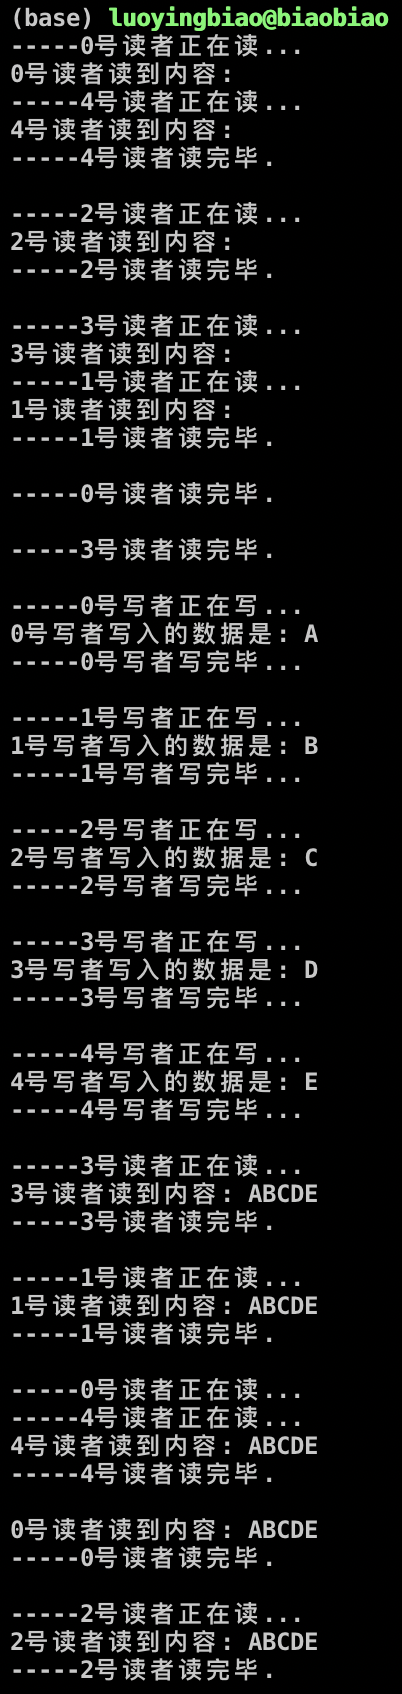
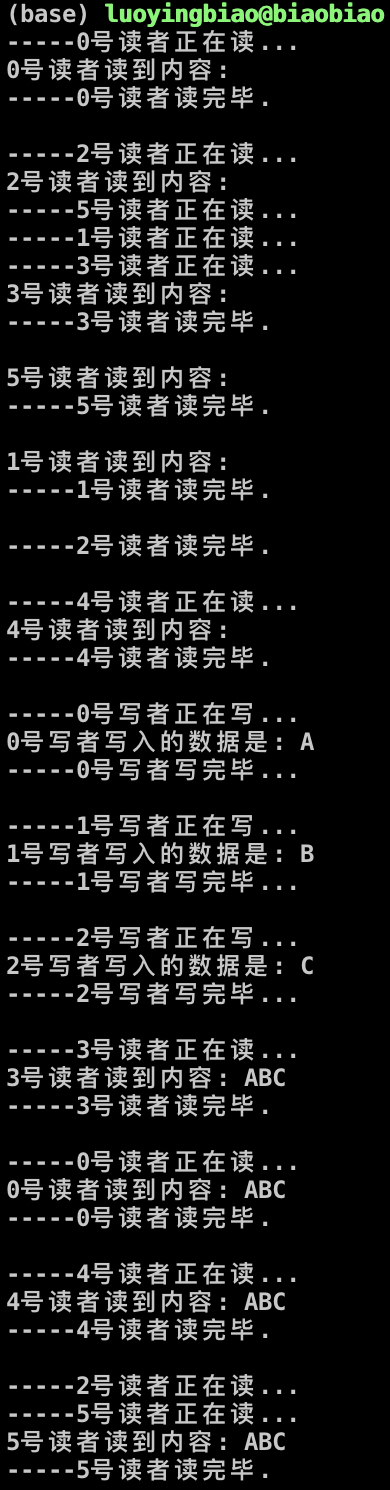
update assignment3

Changed region(s): [[0.0, 0.0, 0.9846, 1.0], [0.7385, 0.4322, 0.8, 0.4631], [0.7385, 0.3705, 0.8, 0.4013]]

diff --git a/assignment3/code1/rw_writer_first.cpp b/assignment3/code1/rw_writer_first.cpp
@@ -3,16 +3,15 @@
 #include <string.h>
 #include <unistd.h>
 
-/** 运用Posix信号量使用”读者优先”策略解决”读者写者问题”
+/** 运用Posix信号量使用”写者优先”策略解决”读者写者问题”
 解题思路:
-如果新读者到：
-　　　①无读者、写者，新读者可以读；
-　　　②有写者等待，但有其它读者正在读，则新读者也可以读；
-　　　③有写者写，新读者等待。
 如果新写者到：
-　　　①无读者，新写者可以写；
-　　　②有读者，新写者等待；
-　　　③有其它写者，新写者等待。
+　　　①无写者、读者，新写者可以写；
+　　　②有其它写者正在写，则新写者等待其他写者写完；
+　　　③有读者读或等待，无其他写者，新写者直接写。
+如果新读者到：
+　　　①无写者或者有其它读者，新读者可以读；
+　　　②有写者，新读者等待；
 **/
 // 需要用两个互斥量实现
 pthread_mutex_t rmutex;
@@ -30,6 +29,7 @@ char ch = 'A';  //写者需要写入的字母
 pthread_t thread[READERCOUNT+WRITERCONUT];  //读者+写者线程
 
 int nReader = 0;
+int nWriter = 0;
 //读者线程
 void *reader(void *args)
 {
@@ -39,22 +39,12 @@ void *reader(void *args)
     while (true)
     {
         pthread_mutex_lock(&rmutex);
-        //如果是第一个读者, 则锁定wmutex
-        if (nReader == 0)
-            pthread_mutex_lock(&wmutex);
-        ++ nReader;
-        pthread_mutex_unlock(&rmutex);
 
         //开始读
         printf("-----%d号读者正在读...\n", number);
         printf("%d号读者读到内容: %s\n", number, paper);
         printf("-----%d号读者读完毕.\n\n", number);
 
-        pthread_mutex_lock(&rmutex);
-        -- nReader;
-        //如果是最后一个读者, 则解锁wmutex
-        if (nReader == 0)
-            pthread_mutex_unlock(&wmutex);
         pthread_mutex_unlock(&rmutex);
 
         sleep(1);
@@ -71,7 +61,10 @@ void *writer(void *args)
     {
         //获取写锁
         pthread_mutex_lock(&wmutex);
+        //获取读锁
+        pthread_mutex_lock(&rmutex);
         //开始写
+
         printf("-----%d号写者正在写...\n", number);
         printf("%d号写者写入的数据是: %c\n", number, ch);
         paper[write_index] = ch;
@@ -80,6 +73,9 @@ void *writer(void *args)
         if (ch > 'Z')
             ch = 'A';
         printf("-----%d号写者写完毕...\n\n", number);
+
+        //释放读锁
+        pthread_mutex_unlock(&rmutex);
         //释放写锁
         pthread_mutex_unlock(&wmutex);
 

diff --git a/assignment3/0B703-勇哥招亲组-多线程编程.md b/assignment3/0B703-勇哥招亲组-多线程编程.md
@@ -54,6 +54,32 @@
 
 ![image](./image/rw_reader_first.png)
 
+## 3.2 写者优先：
+
+(源码见[rw_writer_first.cpp](./code1/rw_writer_first.cpp))
+
+运用Posix互斥锁，使用”写者优先”策略解决”读者写者问题”。
+
+**解题思路:**  
+
+如果新写者到：
+1. 无写者、读者，新写者可以写；
+2. 有其它写者正在写，则新写者等待其他写者写完；
+3. 有读者读或等待，无其他写者，新写者直接写。
+
+如果新读者到：
+1. 无写者或者有其它读者，新读者可以读；
+2. 有写者，新读者等待。
+
+
+**小结:**  
+
+写者优先的设计思想是写进程只要看到有读进程正在读，就可以进行写；写进程必须等待其他写进程完成式，才能开始写。该策略的结果是，如果有持续有写者流进入，那么读者将一直等待，始终被挂起，直到没有写者为止。
+
+**结果：**
+
+![image](./image/rw_writer_first.png)
+
 ## <span id="jump4">四、实验总结</span>
 
 ### 4.1 实验收获

diff --git a/README.md b/README.md
@@ -7,7 +7,7 @@ embedded_system_software_tools
 ## 小组作业：
 1. [0B703-勇哥招亲组-构建主机端开发环境（上）](./assignment1/0B703-勇哥招亲组-构建主机端开发环境（上）.md)
 2. [0B703-勇哥招亲组-多进程编程](./assignment2/0B703-勇哥招亲组-多进程编程.md)
-4. [0B703-勇哥招亲组-多进程编程](./assignment3/0B703-勇哥招亲组-多线程编程.md)
+4. [0B703-勇哥招亲组-多线程编程](./assignment3/0B703-勇哥招亲组-多线程编程.md)
 
 ## 学习笔记：
 1. [git学习笔记](./notes/git学习笔记.md)
